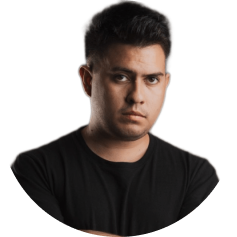
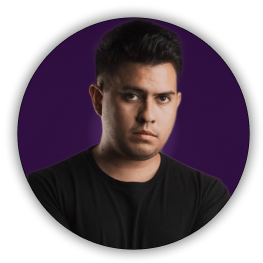
chore: update content

diff --git a/src/components/EventDetails.tsx b/src/components/EventDetails.tsx
@@ -5,7 +5,8 @@ import ScrollReveal from "scrollreveal";
 import { slideLeft, slideRight, slideUp } from "../utils/animations";
 
 import TitleImage from "../assets/images/event-details-title.png";
-import LinesImage from "../assets/images/event-details-lines-short.png";
+import LinesImage from "../assets/images/event-details-lines.png";
+import ProfileImage from "../assets/images/dj-profile.png";
 
 type EventDetailProps = PropsWithChildren & {
   className?: string;
@@ -65,23 +66,31 @@ const EventDetails = () => {
 
           <div
             role="listbox"
-            className="relative flex flex-col gap-[74px] mx-auto odd:ml-auto mt-6 w-[328px]"
+            className="relative flex flex-col gap-[47px] mx-auto odd:ml-auto mt-6 w-[328px]"
           >
             <EventDetail title="Theme" className="uppercase">
               <p>Alternativa - Retro - Arcade</p>
             </EventDetail>
-            <EventDetail
-              title="Music"
-              className="ml-[90px] uppercase"
-              direction="right"
-            >
-              <p>Loading...</p>
+            <EventDetail title="Music" className="ml-[90px]" direction="right">
+              <div className="flex gap-[18px]">
+                <Image
+                  src={ProfileImage}
+                  className="w-[77px] aspect-ratio-square flex-shrink-0"
+                />
+                <p>
+                  DAVID DEHEZA
+                  <br />
+                  Founder of
+                  <br />
+                  @davidehezadjs
+                </p>
+              </div>
             </EventDetail>
             <EventDetail title="Where|When" className="uppercase">
               <p>Loading...</p>
             </EventDetail>
 
-            <div className="absolute w-[234px] top-[25px] left-[60px]">
+            <div className="absolute w-[234px] top-[21px] left-[60px]">
               <Image src={LinesImage} />
             </div>
           </div>

diff --git a/src/components/Footer.tsx b/src/components/Footer.tsx
@@ -11,9 +11,9 @@ const team = [
     url: "https://calendar.app.google/2re7mVoBowPfYdun6",
   },
   {
-    name: "TBA",
+    name: "David Deheza",
     role: "Sound Architect",
-    url: "",
+    url: "https://www.instagram.com/davidehezadjs",
   },
   {
     name: "TBA",
@@ -21,7 +21,7 @@ const team = [
     url: "",
   },
   {
-    name: "Sofia Becerra",
+    name: "Estudio Brutal",
     role: "Creative Styling",
     url: "https://www.instagram.com/estudio_brutal",
   },
